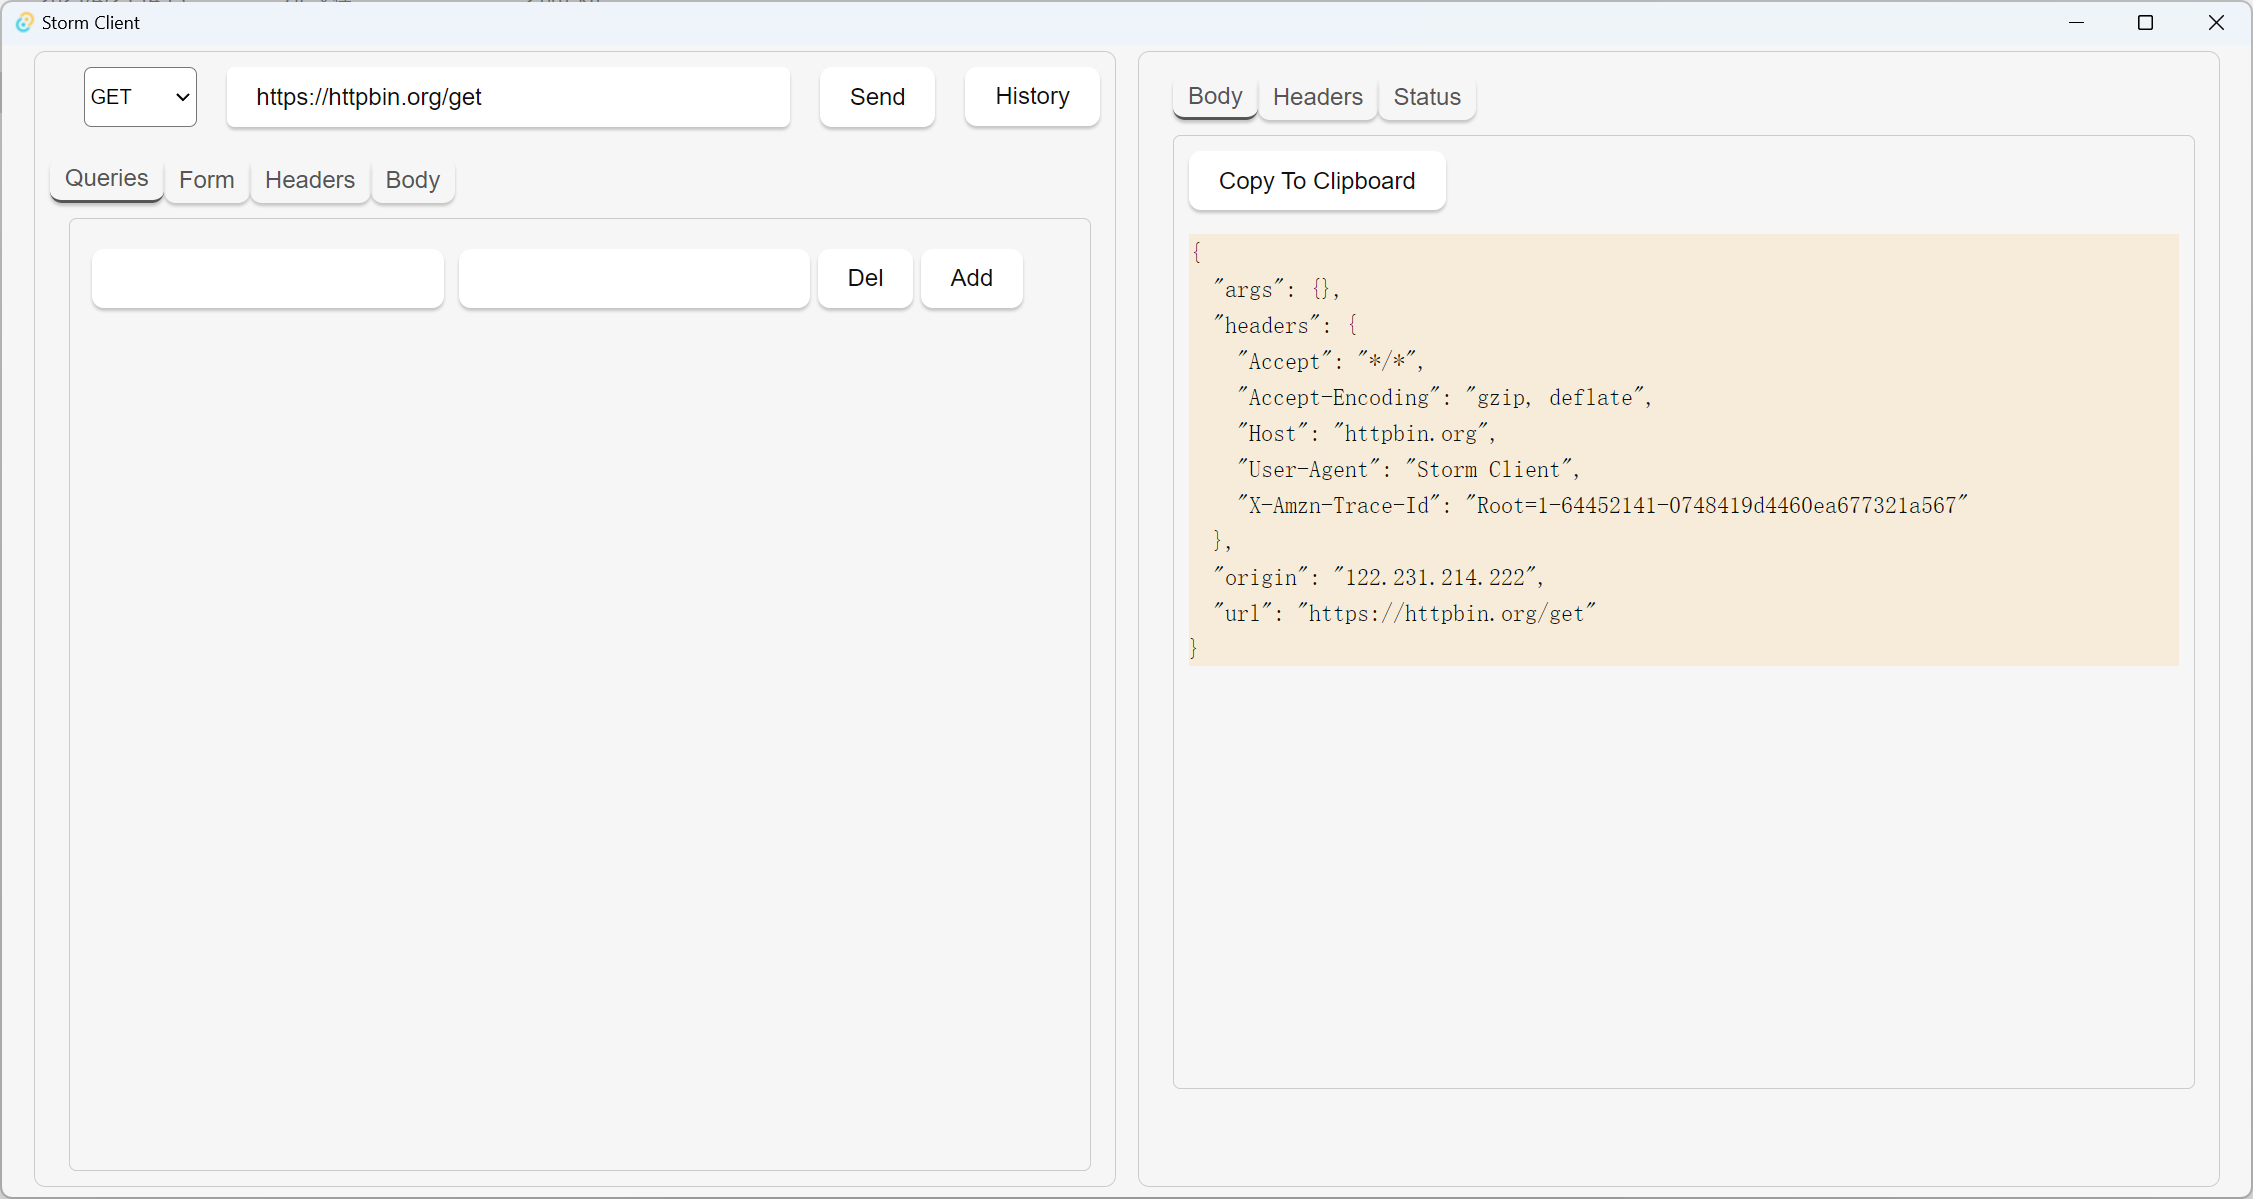
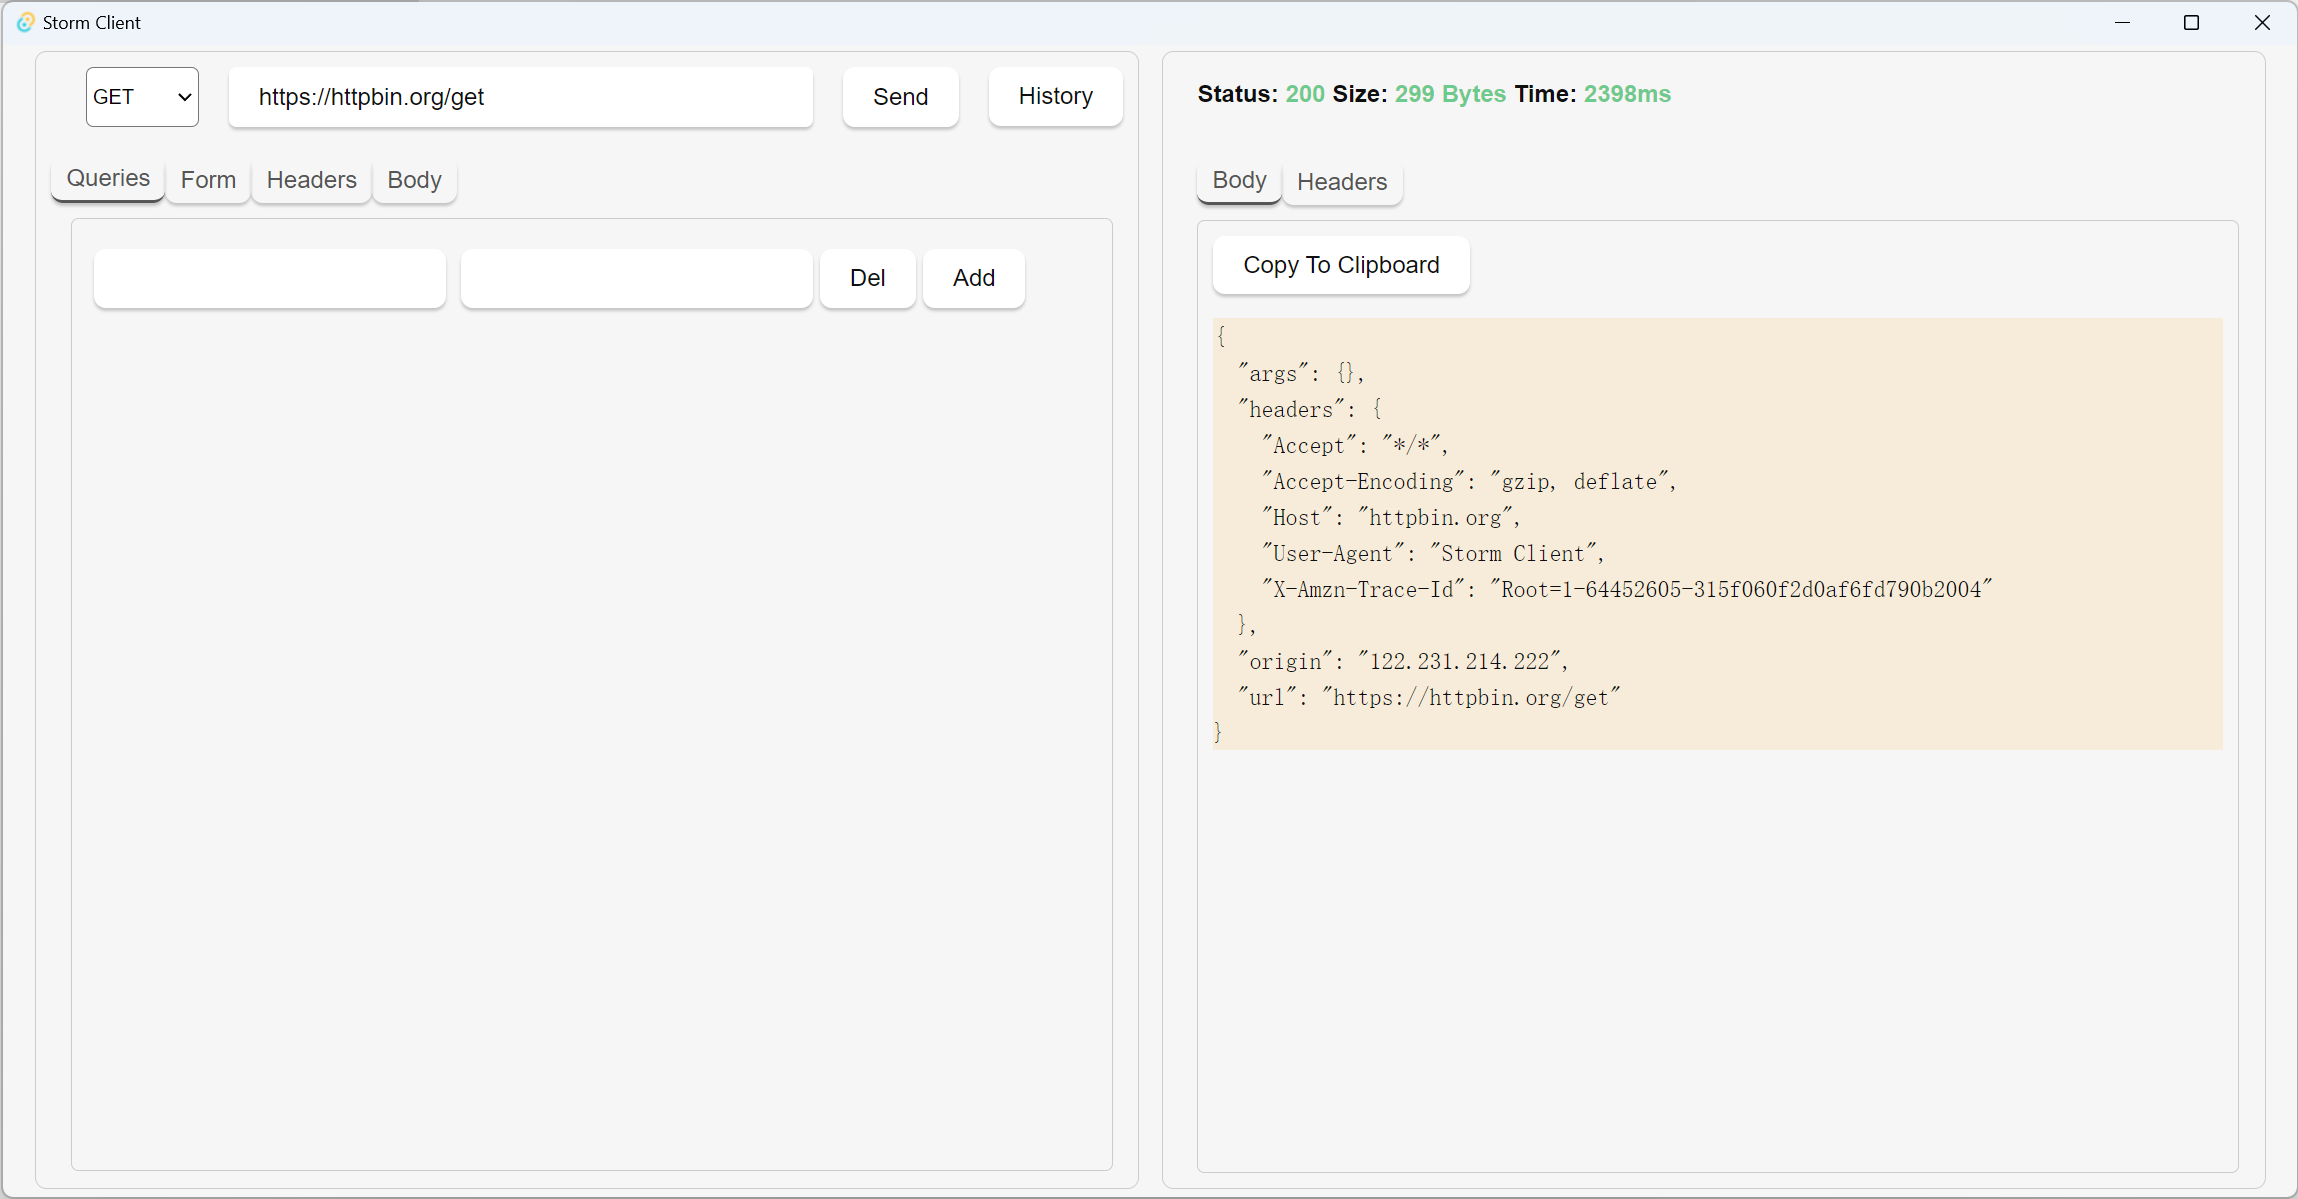
feat(response): remove status tab and display status code、body size and response time above the tabs

diff --git a/src/vm.tsx b/src/vm.tsx
@@ -28,6 +28,7 @@ export const defaultResponse = {
   status: 0,
   headers: {},
   body: new ArrayBuffer(0),
+  time: 0,
 };
 export const [response, setResponse] = createSignal<Response>(defaultResponse);
 export const [loading, setLoading] = createSignal(false);
@@ -94,6 +95,7 @@ export async function doRequest() {
   await storage.appendRequestRecord(record);
   setHistory((history) => [record, ...history.slice(0, 19)]);
   try {
+    const start = Date.now();
     const response = await fetch<number[]>(realUrl(), {
       method: method(),
       headers: requestHeaders(),
@@ -104,6 +106,7 @@ export async function doRequest() {
       status: response.status,
       headers: response.headers,
       body: new Uint8Array(response.data).buffer,
+      time: Date.now() - start,
     });
   } catch (error) {
     setError((error as any).toString());
@@ -132,3 +135,5 @@ createMemo(() => {
 export const contentType = createMemo(
   () => response().headers["content-type"]?.toString() || ""
 );
+
+export const requested = createMemo(() => response().status > 0);

diff --git a/src/components/response/ResponseTabs.tsx b/src/components/response/ResponseTabs.tsx
@@ -1,7 +1,6 @@
 import { createSignal } from "solid-js";
 import { Headers } from "./Headers";
 import { Body } from "./Body";
-import { StatusCode } from "./StatusCode";
 
 type Tab = "headers" | "body" | "status";
 
@@ -27,19 +26,10 @@ export function ResponseTabs() {
         >
           Headers
         </button>
-        <button
-          class={selectedTab() === "status" ? "active" : ""}
-          onClick={() => {
-            setSelectedTab("status");
-          }}
-        >
-          Status
-        </button>
       </div>
       <div class="tab">
         {selectedTab() === "body" && <Body />}
         {selectedTab() === "headers" && <Headers />}
-        {selectedTab() === "status" && <StatusCode />}
       </div>
     </div>
   );

diff --git a/src/components/response/ResponBrief.tsx b/src/components/response/ResponBrief.tsx
@@ -1,0 +1,15 @@
+import { requested, response } from "../../vm";
+import "./response.css";
+
+export function ResponseBrief() {
+  return (
+    <div class="response-breif">
+      <p>
+        Status: <span>{requested() ? response().status : ""} </span>
+        Size:{" "}
+        <span>{requested() ? response().body.byteLength + " Bytes" : ""} </span>
+        Time: <span>{requested() ? response().time + "ms" : ""} </span>
+      </p>
+    </div>
+  );
+}

diff --git a/src/components/response/ResponsePage.tsx b/src/components/response/ResponsePage.tsx
@@ -3,6 +3,7 @@ import "./response.css";
 
 import { Show } from "solid-js";
 import { ResponseTabs } from "./ResponseTabs";
+import { ResponseBrief } from "./ResponBrief";
 
 export function ResponsePage() {
   return (
@@ -11,6 +12,7 @@ export function ResponsePage() {
         <p>Error: {error()}</p>
       </Show>
       <Show when={response()} fallback={<div></div>}>
+        <ResponseBrief />
         <ResponseTabs />
       </Show>
     </div>

diff --git a/src/components/response/response.css b/src/components/response/response.css
@@ -72,10 +72,23 @@
   word-wrap: break-word;
 }
 
-.response headers{
+.response headers {
   display: flex;
   flex-direction: column;
   justify-content: left;
+}
+
+.response-breif {
+  text-align: left;
+  margin-left: 1.5vw;
+}
+
+.response-breif p {
+  font-weight: bold;
+}
+
+.response span {
+  color: rgb(3, 207, 139);
 }
 
 @media (max-width: 1024px) {

diff --git a/src/types.tsx b/src/types.tsx
@@ -23,6 +23,7 @@ export interface Response {
   status: number;
   headers: Record<string, string>;
   body: ArrayBuffer;
+  time: number;
 }
 
 export interface RequestRecord {
